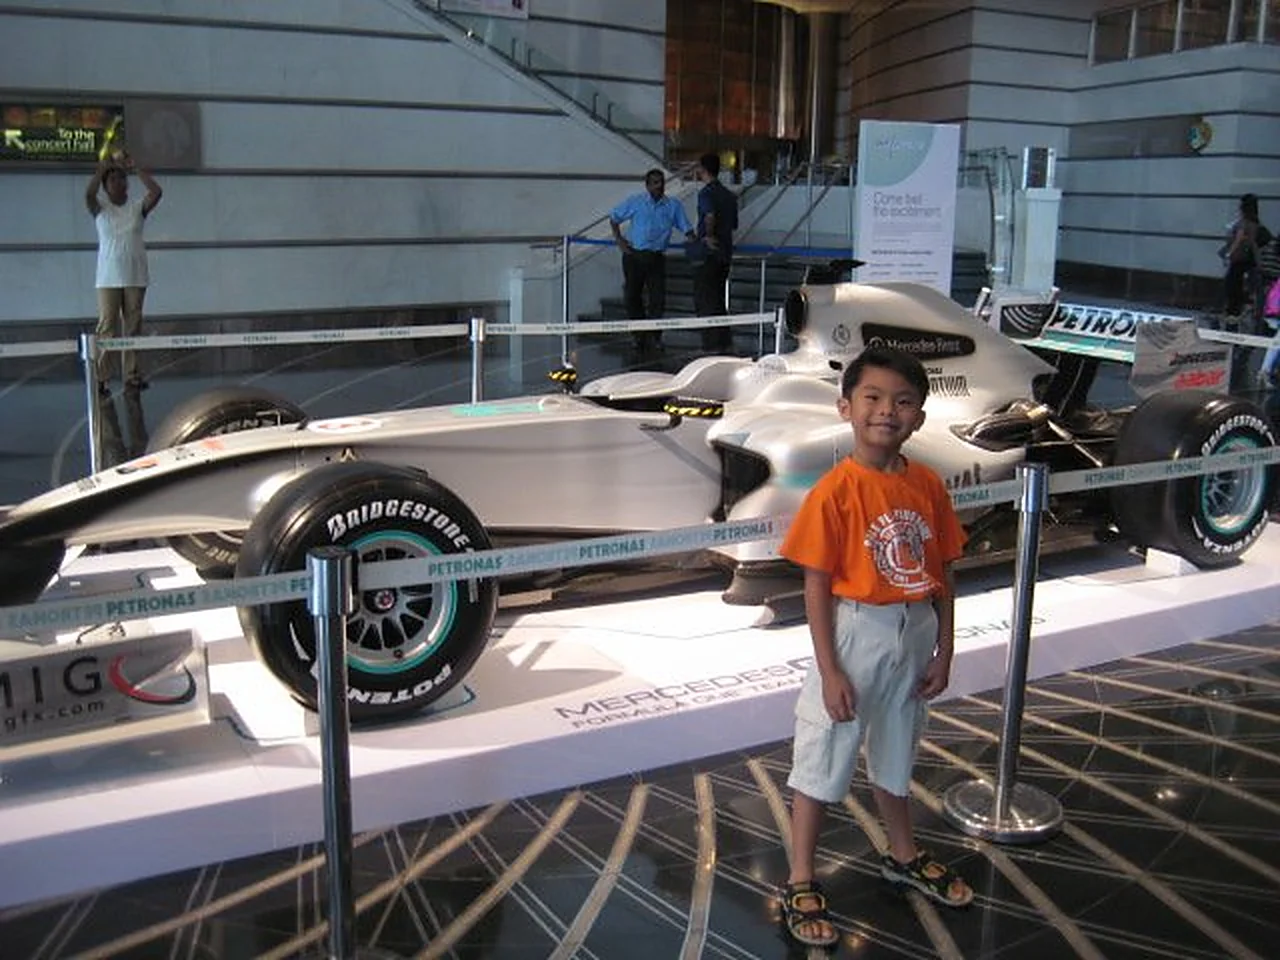
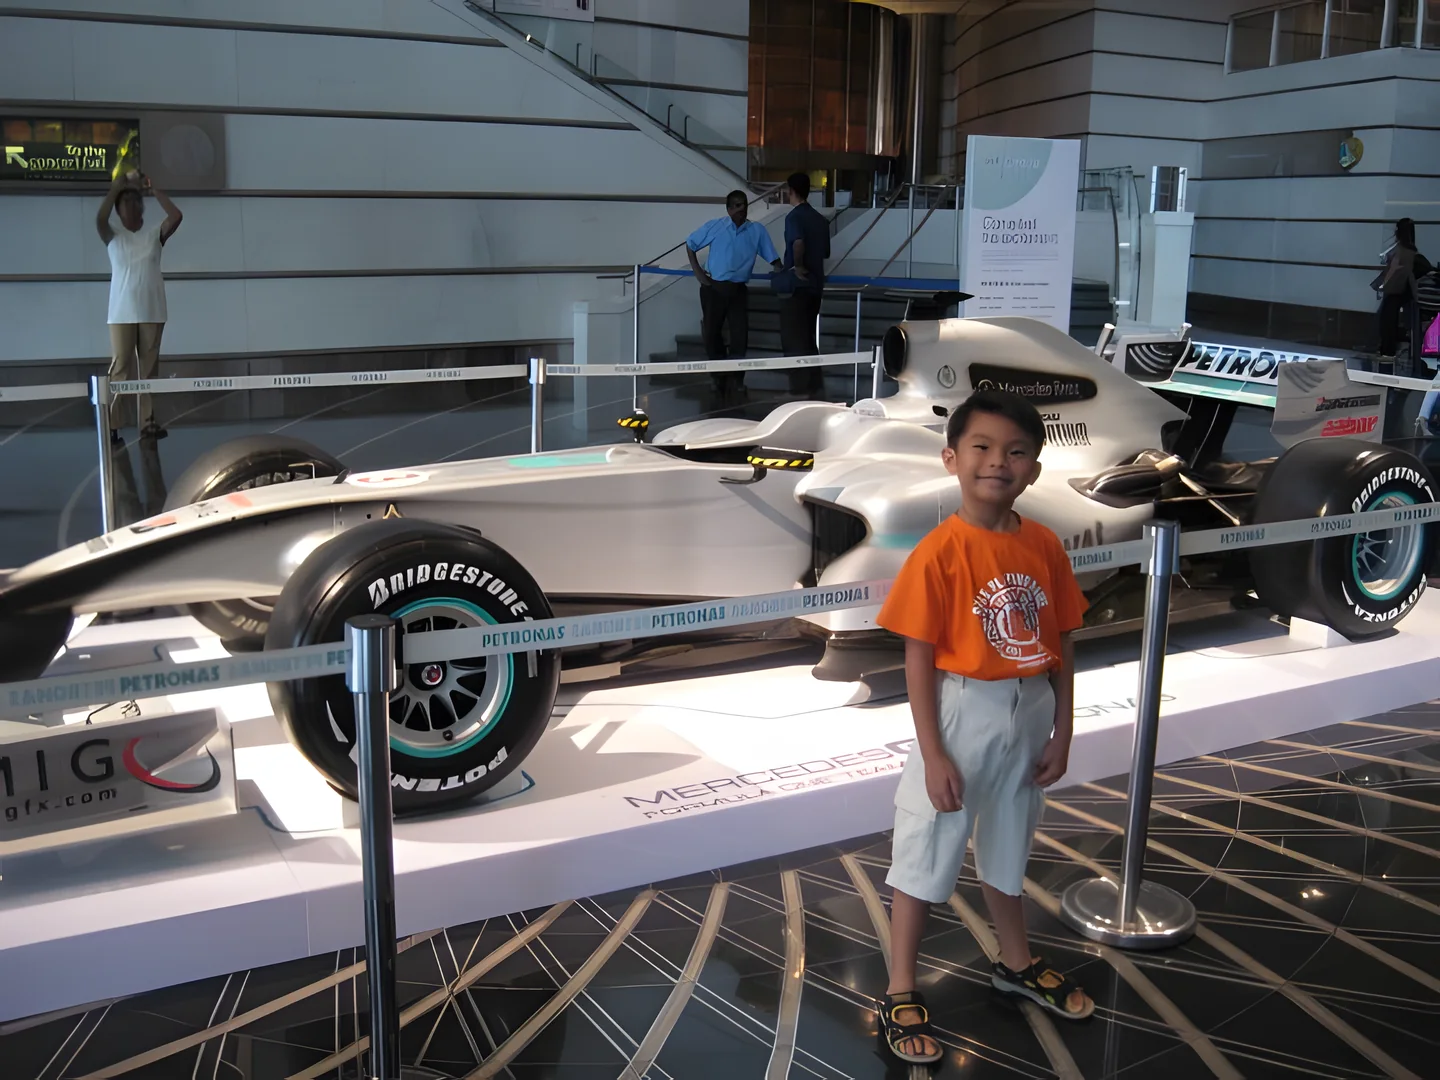
Where I'm from: my photos in real HD (upscaled with Real-ESRGAN), the beach in Labuan, a real map with the route alive on it, and tighter text

diff --git a/content.js b/content.js
@@ -404,21 +404,24 @@ const SITE = {
     // a small label over each paragraph, in order
     labels: ["The island", "Three cultures", "Different, but home", "Nasi lemak & roti canai", "The move", "Suntukan rules", "Haven’t been back"],
     // the route on the map beside the title: where I was born to where I live
-    map: { from: "Labuan, MY", to: "Malolos, PH", km: "1,230" },
+    // the route over a real map (satellite imagery © Google): from and to are
+    // where Labuan and Malolos sit on the picture (984 x 737)
+    map: { src: "assets/origin/map.webp", from: { name: "Labuan", x: 416, y: 625 }, to: { name: "Malolos", x: 647, y: 225 }, km: "1,230", credit: "Imagery © Google" },
     // little polaroids beside the route (tap one to flip to the next).
     // The masters are in images/labuan/; these are cleaned up copies.
     photos: [
+      { src: "assets/origin/beach.webp", alt: "Me as a kid standing on a quiet beach in Labuan, the sea behind me", caption: "Labuan." },
       { src: "assets/origin/roar.webp", alt: "Me as a little kid on a paved path under the trees, hands up like claws, mid-roar", caption: "Mid-roar." },
       { src: "assets/origin/f1-car.webp", alt: "Me as a kid in an orange shirt, standing beside a Mercedes Formula 1 show car", caption: "Me and an F1 car." }
     ],
     paragraphs: [
-      "I was born and raised in Labuan, a small island and federal territory in Malaysia, near Kota Kinabalu. The beaches are what I remember most. Wherever you went, there was always a beach nearby. Some were clean, some were rough around the edges, and some had the whitest sand I’d ever seen. Life felt simple back then. I didn’t feel much pressure to compete with anyone.",
-      "Growing up in a Muslim-majority country also taught me respect. Even though I was raised there, I understood that I had to respect the local customs, keep my pride in check, and learn from the people around me. I also appreciated growing up around Malay, Chinese, and Indian communities. Different cultures, different traditions, all part of everyday life. You learn how to get along with people when that’s the environment you grow up in.",
-      "I noticed the differences growing up. I’m Filipino with Chinese heritage and was raised Catholic in a Muslim-majority country. There were moments when my background made me feel separate, but Malaysia was still home throughout my childhood. Growing up around different cultures taught me to respect other people’s beliefs and stay grounded in my own. I’m proud of my roots, and I appreciate how both Malaysia and the Philippines have shaped me.",
-      "Nasi lemak and roti canai, easily. Those two will always stay with me. I spoke English, Malay, and some rough Tagalog back then. Haha. Knowing the local language makes a big difference. It helps you connect with people and feel more at home.",
-      "I was 12, turning 13, when we moved to the Philippines. My biggest culture shock was how much “diskarte” people needed just to cover everyday necessities. Seeing that up close stayed with me. The education system took some adjusting to as well. But one thing that stood out was the talent. I’ve met a lot of talented people here in the Philippines.",
-      "On a lighter note, even the way people talked about fighting felt different. From what I remember, “suntukan” here usually meant fists. Back in Malaysia, kicks could come into it too. Maybe all that football had something to do with it. Haha. That’s just a personal observation from growing up.",
-      "I haven’t been back to Malaysia since we left. “The grass is always greener on the other side” comes to mind. There’s always that thought that life could be better somewhere else, or that another path might lead to something you haven’t found yet. Moving gave me a reason to think about what I wanted beyond the life I’d grown up knowing."
+      "It starts in Labuan, a small island territory off the coast of Sabah. The sea was everywhere, and life moved at an unhurried pace. Some beaches were wild and rough around the edges; others had white sand that seemed to go on forever. Back then there was nothing to prove and no one to race, just a calm foundation.",
+      "Growing up in a Muslim-majority country, you learn respect by watching, not by being told. You keep your ego in check, honor local traditions and learn to read the room. Living alongside Malay, Chinese and Indian communities every day taught me how to connect with anyone without losing my balance.",
+      "Filipino with Chinese heritage, raised Catholic in a predominantly Muslim country. Some moments made me feel like an outsider, but Malaysia was home through and through. Living at that crossroads taught me to respect other people’s beliefs while staying rooted in my own. Both places built who I am.",
+      "Nasi lemak and roti canai: non-negotiable, and they stay with you forever. I spoke a mix of English, Malay and rough Tagalog. Speaking the local language breaks down barriers fast. It turns strangers into brothers and any place into home.",
+      "I was 12, turning 13, when we moved to the Philippines. The real culture shock was diskarte: people hustling and solving problems out of sheer necessity. It gave me a deep respect for grit. The move tested how well I could adapt, and it introduced me to unbelievable talent.",
+      "On a lighter note, even fights followed different rules. Here, suntukan meant hands, pure boxing. Back in Malaysia, kicks were fair game, probably from all the football on every open field. A small detail, but a funny reminder of how a place shapes the way people handle pressure.",
+      "I haven’t been back to Malaysia since we left. Moving early made me look ahead instead of staying comfortable with what I knew. The island and everything it taught me are still part of how I think and move."
     ],
     lesson: "Appreciate the little things while they’re still part of your everyday life. A place, a routine, a moment with someone—you might not think much of it at the time. Years later, you realize how much it meant. Some things only make sense as you get older."
   },

diff --git a/main.js b/main.js
@@ -2960,22 +2960,29 @@ if (SITE.origin && SITE.origin.paragraphs) {
   const block = el("div", "wordwall origin");
   const head = el("div", "wordwall-head reveal");
   head.append(el("p", "now-label mono", o.label), staggerWords(el("h3", "origin-title", o.title || "")));
-  // the route: a dot on Labuan, a dotted line that draws itself across the
-  // sea (as the section comes on screen) to a dot on Malolos
-  if (o.map) {
-    const map = el("div", "origin-map reveal");
-    map.setAttribute("role", "img");
-    map.setAttribute("aria-label", `From ${o.map.from} to ${o.map.to}, about ${o.map.km} km`);
-    map.innerHTML = `<svg viewBox="0 0 240 230" aria-hidden="true">
-      <defs><mask id="routeMask"><path class="route-draw" pathLength="1" d="M44 196 Q 52 70 196 42"/></mask></defs>
-      <path class="route" d="M44 196 Q 52 70 196 42" mask="url(#routeMask)"/>
-      <circle class="route-dot route-from" cx="44" cy="196" r="5"/><circle class="route-ring" cx="44" cy="196" r="5"/>
-      <circle class="route-dot route-to" cx="196" cy="42" r="5"/>
-      <text class="route-label" x="58" y="212">${o.map.from}</text>
-      <text class="route-label" x="196" y="24" text-anchor="end">${o.map.to}</text>
-      <text class="route-km" x="132" y="132">≈ ${o.map.km} km</text>
-    </svg>`;
-    head.appendChild(map);
+  // the route, over the real map: a dot pings on Labuan, a dotted line draws
+  // itself across the sea when the map comes on screen, a light then keeps
+  // travelling it, and the map drifts in slowly underneath
+  let mapFigure = null;
+  if (o.map && o.map.src) {
+    const { from, to } = o.map;
+    const cx = (from.x + to.x) / 2 - 90;
+    const cy = (from.y + to.y) / 2 + 10;
+    const route = `M${from.x} ${from.y} Q ${cx} ${cy} ${to.x} ${to.y}`;
+    mapFigure = el("figure", "origin-map reveal");
+    mapFigure.innerHTML = `<div class="map-frame" role="img" aria-label="Map: from ${from.name}, Malaysia to ${to.name}, Philippines, about ${o.map.km} km">
+      <div class="map-drift"><img src="${o.map.src}" alt="" loading="lazy" decoding="async">
+      <svg viewBox="0 0 984 737" aria-hidden="true">
+        <defs><mask id="routeMask"><path class="route-draw" pathLength="1" d="${route}"/></mask></defs>
+        <path class="route" d="${route}" mask="url(#routeMask)"/>
+        <circle class="route-traveler" r="6"><animateMotion dur="3.6s" repeatCount="indefinite" path="${route}"/></circle>
+        <circle class="route-ring" cx="${from.x}" cy="${from.y}" r="9"/>
+        <circle class="route-dot" cx="${from.x}" cy="${from.y}" r="9"/>
+        <circle class="route-dot route-to" cx="${to.x}" cy="${to.y}" r="9"/>
+        <text class="route-label" x="${from.x + 20}" y="${from.y + 8}">${from.name}</text>
+        <text class="route-label route-to" x="${to.x + 20}" y="${to.y + 8}">${to.name}</text>
+      </svg></div></div>
+      <figcaption class="mono"><span>${from.name} → ${to.name} · ≈ ${o.map.km} km</span><span>${o.map.credit || ""}</span></figcaption>`;
   }
   // the photos, as a little stack of polaroids: tap (or click) the one in
   // front and it tucks in behind the others
@@ -3015,6 +3022,7 @@ if (SITE.origin && SITE.origin.paragraphs) {
     head.appendChild(stack);
   }
   const body = el("div", "origin-body reveal");
+  if (mapFigure) body.appendChild(mapFigure);
   o.paragraphs.forEach((text, i) => {
     const moment = el("div", "origin-moment");
     if (o.labels && o.labels[i]) moment.appendChild(el("p", "origin-label mono", o.labels[i]));

diff --git a/style.css b/style.css
@@ -4835,3 +4835,24 @@ button.craft-row {
 @keyframes polaroid-tuck { 45% { translate: 70% -6%; rotate: 12deg; } }
 .polaroid:focus-visible { outline: 2px solid var(--accent); outline-offset: 4px; }
 @media (prefers-reduced-motion: reduce) { .polaroid { transition: none; } .polaroid.tuck { animation: none; } }
+
+/* The real map (replacing the drawn one): a dimmed satellite picture that
+   drifts in slowly, the route drawn over it in the accent */
+.origin-map { width: 100%; margin: 0 0 8px; }
+.map-frame { position: relative; overflow: hidden; border-radius: 6px; aspect-ratio: 984 / 737; background: #0b1630; }
+.map-drift { position: absolute; inset: 0; transform-origin: 46% 60%; }
+.origin-map.in .map-drift { animation: map-drift 22s ease-in-out infinite alternate; }
+@keyframes map-drift { from { transform: scale(1); } to { transform: scale(1.08); } }
+.map-drift img { width: 100%; height: 100%; object-fit: cover; filter: brightness(0.62) saturate(0.85); }
+.map-drift svg { position: absolute; inset: 0; width: 100%; height: 100%; }
+.map-frame .route { stroke: #fff; stroke-width: 3.5; stroke-dasharray: 2 12; }
+.map-frame .route-draw { stroke-width: 24; transition: stroke-dashoffset 2.2s var(--ease-in-out) 0.4s; }
+.map-frame .route-dot { fill: var(--accent); }
+.map-frame .route-to { fill: #fff; transition: opacity 0.5s ease 2.4s; }
+.map-frame .route-ring { stroke-width: 2.5; }
+.map-frame .route-label { fill: #fff; font-size: 24px; letter-spacing: 0.12em; opacity: 0.9; }
+.map-frame text.route-to { fill: #fff; }
+.route-traveler { fill: #fff; opacity: 0; filter: drop-shadow(0 0 6px var(--accent)); transition: opacity 0.5s ease 2.6s; }
+.origin-map.in .route-traveler { opacity: 1; }
+.origin-map figcaption { display: flex; justify-content: space-between; gap: 12px; margin-top: 10px; font-size: 10px; letter-spacing: 0.12em; text-transform: uppercase; color: var(--muted); }
+@media (prefers-reduced-motion: reduce) { .origin-map.in .map-drift { animation: none; } .route-traveler { display: none; } }

diff --git a/index.html b/index.html
@@ -28,7 +28,7 @@
   <link rel="preconnect" href="https://fonts.gstatic.com" crossorigin>
   <link href="https://fonts.googleapis.com/css2?family=Instrument+Serif:ital@0;1&family=Geist:wght@300;400;500;700&family=Geist+Mono:wght@400;500&family=Barlow+Condensed:ital,wght@0,600;0,700;0,800;1,800&family=Archivo:ital,wdth,wght@1,125,900&display=swap" rel="stylesheet">
   <link rel="stylesheet" href="https://cdn.jsdelivr.net/npm/lenis@1.3.26/dist/lenis.css">
-  <link rel="stylesheet" href="style.css?v=20261013-1">
+  <link rel="stylesheet" href="style.css?v=20261013-2">
   <script>
     // Old Safari (iOS 15 and older, like an iPhone 7) lacks two CSS features
     // the site uses; legacy.js rewrites the styles for it
@@ -154,8 +154,8 @@
 
   <!-- Bump ?v= on the three files below whenever they change, so visitors skip the cached copies -->
   <script src="https://cdn.jsdelivr.net/npm/lenis@1.3.26/dist/lenis.min.js"></script>
-  <script src="content.js?v=20261013-1"></script>
-  <script src="main.js?v=20261013-1"></script>
+  <script src="content.js?v=20261013-2"></script>
+  <script src="main.js?v=20261013-2"></script>
   <!-- Visitor stats: GoatCounter (no cookies). Dashboard: https://matimbu.goatcounter.com
        Open the site once with #toggle-goatcounter at the end of the address to stop
        counting your own visits in that browser. It never counts localhost. -->
